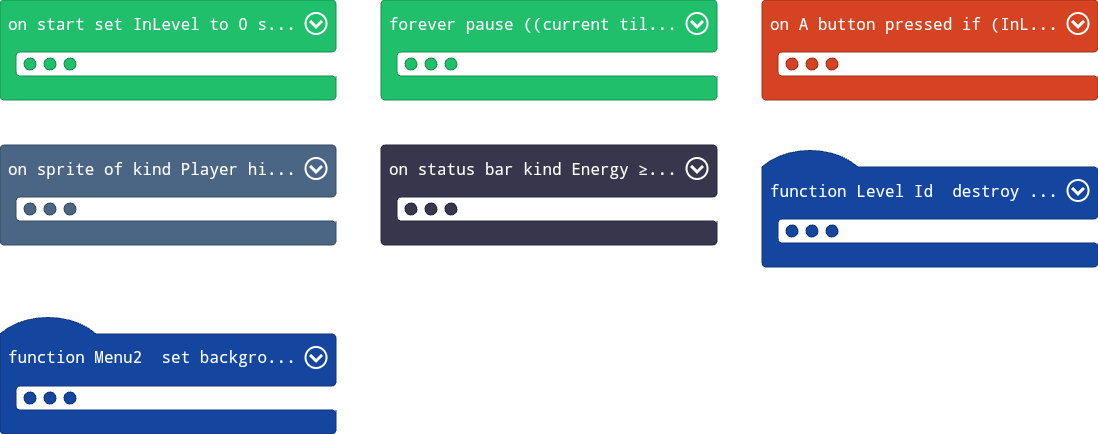
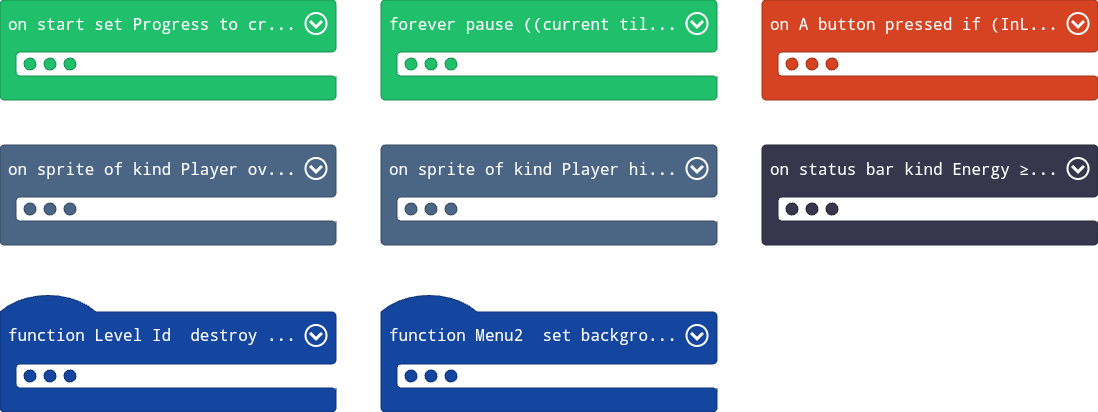
Stuff6

diff --git a/tilemap.g.ts b/tilemap.g.ts
@@ -15,8 +15,6 @@ namespace myTiles {
     //% fixedInstance jres blockIdentity=images._tile
     export const tile10 = image.ofBuffer(hex``);
     //% fixedInstance jres blockIdentity=images._tile
-    export const tile11 = image.ofBuffer(hex``);
-    //% fixedInstance jres blockIdentity=images._tile
     export const tile4 = image.ofBuffer(hex``);
     //% fixedInstance jres blockIdentity=images._tile
     export const tile1 = image.ofBuffer(hex``);
@@ -32,29 +30,11 @@ namespace myTiles {
     export const tile13 = image.ofBuffer(hex``);
     //% fixedInstance jres blockIdentity=images._tile
     export const tile2 = image.ofBuffer(hex``);
+    //% fixedInstance jres blockIdentity=images._tile
+    export const tile11 = image.ofBuffer(hex``);
 
     helpers._registerFactory("tilemap", function(name: string) {
         switch(helpers.stringTrim(name)) {
-            case "Level1":
[1 lines of base64/hex data omitted]
-..........................................................................................................................................................................................................222222222222222222................2.......222222
-..........................................................................................................................................................................................................222222222222222222................2.......222222
-..........................................................................................................................................................................................................222222222222222222................2.......2.....
-..........................................................................................................................................................................................................222222222222222222................2.............
-..........................................................................................................................................................................................................222222222222222222................2.............
-..........................................................................................................................................................................................................222222222222222222..............................
-..........................................................................................................................................................................................................222222222222222222..............................
-.........................................................................................................................22........22.........2222........................................................222222222222222222..............................
-........................................................................................................................2222......2222........2222........2..............................................2222222222222222222..............................
-...................................................................................................................222222222222222222222222..........222222..............................................2..22222222222...................................
-.............................................................................................................2......222222222222222222222222222222222222222..........................................................................2....................
-........................................................................................................2...........2222222222222222222222222222222222222222..............2.........................2................................2....................
-................................................2..........................................2.......2................2222222222222222222222222222222222222222222222222..2222......2.............2....222222222222222222222222.........2..............2.....
-...........................................2....2..............................2......2222222222....................222222222222222222222222222222222222222222222...........222222........2..............2222222222222222222.........2..............222222
-.................2........22........2.2.222222222........22......22222222222222222222222222222222222222222222222222222222222222222222222222222222222222222222222222222222222222222222222222222222222222222222222222222222222.........2..............222222
-2222222222222222222222222222222222222222222222222222222222222222222222222222222222222222222222222222222222222222222222222222222222222222222222222222222222222222222222222222222222222222222222222222222222222222222222222222222222222222222222222222222222
-2222222222222222222222222222222222222222222222222222222222222222222222222222222222222222222222222222222222222222222222222222222222222222222222222222222222222222222222222222222222222222222222222222222222222222222222222222222222222222222222222222222222
-`, [myTiles.transparency16,myTiles.tile1,myTiles.tile2,myTiles.tile3,myTiles.tile4,myTiles.tile5,myTiles.tile6,myTiles.tile7,myTiles.tile8,myTiles.tile9,myTiles.tile10,myTiles.tile11,myTiles.tile12,myTiles.tile14,myTiles.tile13,myTiles.tile16], TileScale.Sixteen);
             case "MenuScreen":
             case "level3":return tiles.createTilemap(hex`100008000000000000000000000000000000000000000000000000000000000000000000000000000000000000000000000000000000000000000000000000000000000000000000000000000000000000000000000000000000000000000000000000000302030203020302030203020302030204010401040104010401040104010401`, img`
 . . . . . . . . . . . . . . . . 
@@ -85,6 +65,26 @@ namespace myTiles {
 . . . . . . . . . . . . . . . . 
 . . . . . . . . . . . . . . . . 
 `, [myTiles.transparency16,myTiles.tile5,myTiles.tile6,myTiles.tile8,myTiles.tile4,myTiles.tile1,myTiles.tile12,myTiles.tile14,myTiles.tile16,myTiles.tile13,myTiles.tile2], TileScale.Sixteen);
+            case "Level1":
[1 lines of base64/hex data omitted]
+..........................................................................................................................................................................................................222222222222222222................2.......222222
+..........................................................................................................................................................................................................222222222222222222................2.......222222
+..........................................................................................................................................................................................................222222222222222222................2.......2.....
+..........................................................................................................................................................................................................222222222222222222................2.............
+..........................................................................................................................................................................................................222222222222222222................2.............
+..........................................................................................................................................................................................................222222222222222222..............................
+..........................................................................................................................................................................................................222222222222222222..............................
+.........................................................................................................................22........22.........2222........................................................222222222222222222..............................
+........................................................................................................................2222......2222........2222........2..............................................2222222222222222222..............................
+..................................................................................................................2222222222222222222222222..........222222..............................................2..22222222222...................................
+.............................................................................................................2......222222222222222222222222222222222222222..........................................................................2....................
+........................................................................................................2...........2222222222222222222222222222222222222222..............2.........................2................................2....................
+................................................2..........................................2.......2................2222222222222222222222222222222222222222222222222..2222......2.............2....222222222222222222222222.........2..............2.....
+...........................................2....2..............................2......2222222222....................222222222222222222222222222222222222222222222...........222222........2..............2222222222222222222.........2..............222222
+.................2........22........2.2.222222222........22......22222222222222222222222222222222222222222222222222222222222222222222222222222222222222222222222222222222222222222222222222222222222222222222222222222222222.........2..............222222
+2222222222222222222222222222222222222222222222222222222222222222222222222222222222222222222222222222222222222222222222222222222222222222222222222222222222222222222222222222222222222222222222222222222222222222222222222222222222222222222222222222222222
+2222222222222222222222222222222222222222222222222222222222222222222222222222222222222222222222222222222222222222222222222222222222222222222222222222222222222222222222222222222222222222222222222222222222222222222222222222222222222222222222222222222222
+`, [myTiles.transparency16,myTiles.tile1,myTiles.tile2,myTiles.tile3,myTiles.tile4,myTiles.tile5,myTiles.tile6,myTiles.tile7,myTiles.tile8,myTiles.tile9,myTiles.tile10,myTiles.tile11,myTiles.tile12,myTiles.tile14,myTiles.tile13,myTiles.tile16], TileScale.Sixteen);
         }
         return null;
     })
@@ -104,8 +104,6 @@ namespace myTiles {
             case "tile9":return tile9;
             case "Slab":
             case "tile10":return tile10;
-            case "Ship":
-            case "tile11":return tile11;
             case "Ground0":
             case "tile4":return tile4;
             case "Ground":
@@ -122,6 +120,8 @@ namespace myTiles {
             case "tile13":return tile13;
             case "Spike":
             case "tile2":return tile2;
+            case "Ship":
+            case "tile11":return tile11;
         }
         return null;
     })

diff --git a/images.g.ts b/images.g.ts
@@ -22,44 +22,6 @@ f 7 7 7 7 7 7 7 7 7 7 7 7 7 7 f
 f 7 7 7 7 7 7 7 7 7 7 7 7 7 7 f 
 f f f f f f f f f f f f f f f f 
 `;
-            case "image2":
-            case "Jump":return img`
-. . . f f f f f f f f . . . . . 
-. . f f 7 7 7 7 7 7 7 f . . . . 
-. f f 7 7 f f f f f 7 7 f f . . 
-f f 7 7 7 f . . . . f 7 7 7 f f 
-f 7 7 7 f . . . . . . f 7 7 7 f 
-f 7 f f . f f f f f . . f 7 7 f 
-f 7 f . . f 9 9 9 f f . f 7 7 f 
-f f . . . f 9 9 9 9 f . f 7 7 f 
-f f . . . f 9 9 9 9 f . f 7 7 f 
-f 7 f . . f 9 9 9 9 f . f 7 7 f 
-f 7 f f . f f f f f . . f 7 7 . 
-f 7 7 f f . . . . . . f 7 7 f . 
-f 7 7 7 7 f . . . . f 7 7 7 f . 
-. f 7 7 7 7 7 f f 7 7 7 7 f . . 
-. . f f 7 7 7 7 7 7 7 f f . . . 
-. . . . f f f f f f f f . . . . 
-`;
-            case "image1":
-            case "Jump0":return img`
-. . . . f f f f f f f f . . . . 
-. . f f 7 7 7 7 7 7 7 f f . . . 
-. f 7 7 7 7 7 f f 7 7 7 7 f . . 
-f 7 7 7 7 f . . . . f 7 7 7 f . 
-f 7 7 f f . . . . . . f 7 7 f . 
-f 7 f f . f f f f f . . f 7 7 . 
-f 7 f . . f 9 9 9 9 f . f 7 7 f 
-f f . . . f 9 9 9 9 f . f 7 7 f 
-f f . . . f 9 9 9 9 f . f 7 7 f 
-f 7 f . . f 9 9 9 f f . f 7 7 f 
-f 7 f f . f f f f f . . f 7 7 f 
-f 7 7 7 f . . . . . . f 7 7 7 f 
-f f 7 7 7 f . . . . f 7 7 7 f f 
-. f f 7 7 f f f f f 7 7 f f . . 
-. . f f 7 7 7 7 7 7 7 f . . . . 
-. . . f f f f f f f f . . . . . 
-`;
             case "tEpsbQu?ZI@KkdZH[tPn":
             case "Misc":return img`
 f f f f f 7 7 7 7 7 f f f f f 
@@ -140,6 +102,63 @@ f9999f5f77777999999f
 f99999f777777999999f
 f999999777777999999f
 fffffff777777fffffff
+`;
+            case "image2":
+            case "Jump":return img`
+. . . f f f f f f f f . . . . . 
+. . f f 7 7 7 7 7 7 7 f . . . . 
+. f f 7 7 f f f f f 7 7 f f . . 
+f f 7 7 7 f . . . . f 7 7 7 f f 
+f 7 7 7 f . . . . . . f 7 7 7 f 
+f 7 f f . f f f f f . . f 7 7 f 
+f 7 f . . f 9 9 9 f f . f 7 7 f 
+f f . . . f 9 9 9 9 f . f 7 7 f 
+f f . . . f 9 9 9 9 f . f 7 7 f 
+f 7 f . . f 9 9 9 9 f . f 7 7 f 
+f 7 f f . f f f f f . . f 7 7 . 
+f 7 7 f f . . . . . . f 7 7 f . 
+f 7 7 7 7 f . . . . f 7 7 7 f . 
+. f 7 7 7 7 7 f f 7 7 7 7 f . . 
+. . f f 7 7 7 7 7 7 7 f f . . . 
+. . . . f f f f f f f f . . . . 
+`;
+            case "image1":
+            case "Jump0":return img`
+. . . . f f f f f f f f . . . . 
+. . f f 7 7 7 7 7 7 7 f f . . . 
+. f 7 7 7 7 7 f f 7 7 7 7 f . . 
+f 7 7 7 7 f . . . . f 7 7 7 f . 
+f 7 7 f f . . . . . . f 7 7 f . 
+f 7 f f . f f f f f . . f 7 7 . 
+f 7 f . . f 9 9 9 9 f . f 7 7 f 
+f f . . . f 9 9 9 9 f . f 7 7 f 
+f f . . . f 9 9 9 9 f . f 7 7 f 
+f 7 f . . f 9 9 9 f f . f 7 7 f 
+f 7 f f . f f f f f . . f 7 7 f 
+f 7 7 7 f . . . . . . f 7 7 7 f 
+f f 7 7 7 f . . . . f 7 7 7 f f 
+. f f 7 7 f f f f f 7 7 f f . . 
+. . f f 7 7 7 7 7 7 7 f . . . . 
+. . . f f f f f f f f . . . . . 
+`;
+            case "image5":
+            case "PlayerShip":return img`
+. . . . . . . . . . . . . . . . 
+. . . . . . . . . . . . . . . . 
+. f f f f f f f f f f f f . . . 
+. f 7 7 7 7 7 7 7 7 7 7 f . . . 
+. f 7 f f f f f f f f 7 f . . . 
+. f 7 f . . . . . . f 7 f . . . 
+. f 7 f . f f f f . f 7 f . . . 
+. f 7 f . f 9 9 f . f 7 f 9 . . 
+. f 7 f . f 9 9 f . f 7 f 9 . . 
+. f 7 f . f f f f . f 7 f 9 . . 
+. f 7 f . . . . . . f 7 f 9 . . 
+. f 7 f f f f f f f f 7 f 7 7 . 
+7 f 7 7 7 7 7 7 7 7 7 7 f 7 7 7 
+7 f f f f f f f f f f f f 7 7 7 
+7 7 7 7 7 7 7 7 7 7 7 7 7 7 7 7 
+. 7 7 7 7 7 7 7 7 7 7 7 7 7 7 . 
 `;
         }
         return null;

diff --git a/main.ts b/main.ts
@@ -9,11 +9,23 @@ scene.onHitWall(SpriteKind.Player, function (sprite, location) {
 })
 controller.A.onEvent(ControllerButtonEvent.Pressed, function () {
     if (InLevel == 1) {
-        while (controller.A.isPressed() && Playar.isHittingTile(CollisionDirection.Bottom)) {
-            Playar.vy = -150
-            pause(370)
-            Playar.vy = 150
-            pause(370)
+        while (controller.A.isPressed()) {
+            if (Gamemode == 1) {
+                Playar.vy = -150
+                Playar.setImage(assets.image`Jump`)
+                pause(370)
+                Playar.vy = 150
+                Playar.setImage(assets.image`Jump0`)
+                pause(370)
+                Playar.setImage(assets.image`Player`)
+            } else if (Gamemode == 2) {
+                while (controller.A.isPressed()) {
+                    Playar.vy = 100
+                    Playar.startEffect(effects.spray)
+                }
+                effects.clearParticles(Playar)
+                Playar.vy = -100
+            }
         }
     }
 })
@@ -42,6 +54,10 @@ function Menu2 () {
         }
     })
 }
+scene.onOverlapTile(SpriteKind.Player, assets.tile`Ship`, function (sprite, location) {
+    Gamemode = 2
+    Playar.setImage(assets.image`PlayerShip`)
+})
 function Level (Id: number) {
     sprites.destroyAllSpritesOfKind(SpriteKind.Player)
     if (Id == 1) {
@@ -51,7 +67,6 @@ function Level (Id: number) {
     }
     Playar = sprites.create(assets.image`Player`, SpriteKind.Player)
     cameraOffsetScene.cameraFollowWithOffset(Playar, 40, 0)
-    InLevel = 1
     Playar.vx = 110
     tiles.placeOnTile(Playar, tiles.getTileLocation(0, 14))
     Playar.vy = 150
@@ -59,16 +74,20 @@ function Level (Id: number) {
     Progress.setColor(7, 0)
     Progress.value = 0
     Progress.setPosition(80, 17)
+    InLevel = 1
 }
 statusbars.onStatusReached(StatusBarKind.Energy, statusbars.StatusComparison.GTE, statusbars.ComparisonType.Percentage, 100, function (status) {
     game.gameOver(true)
 })
 let Menu: miniMenu.MenuSprite = null
 let Title: Sprite = null
-let Progress: StatusBarSprite = null
 let Playar: Sprite = null
+let Gamemode = 0
 let InLevel = 0
+let Progress: StatusBarSprite = null
+Progress = statusbars.create(0, 0, StatusBarKind.Energy)
 InLevel = 0
+Gamemode = 1
 tiles.setCurrentTilemap(tilemap`Level1`)
 Menu2()
 forever(function () {
